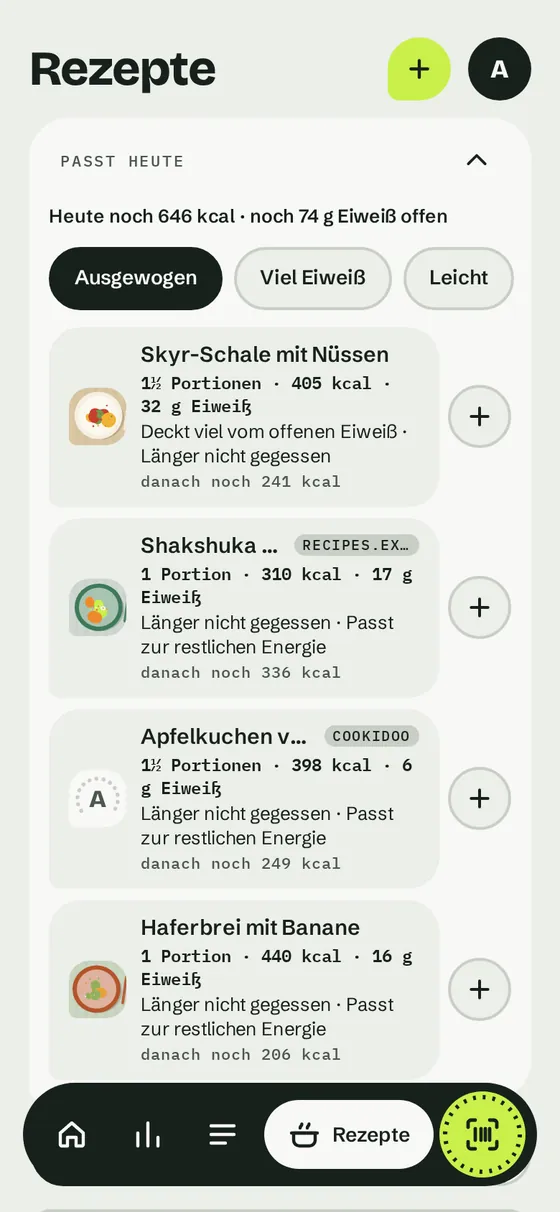
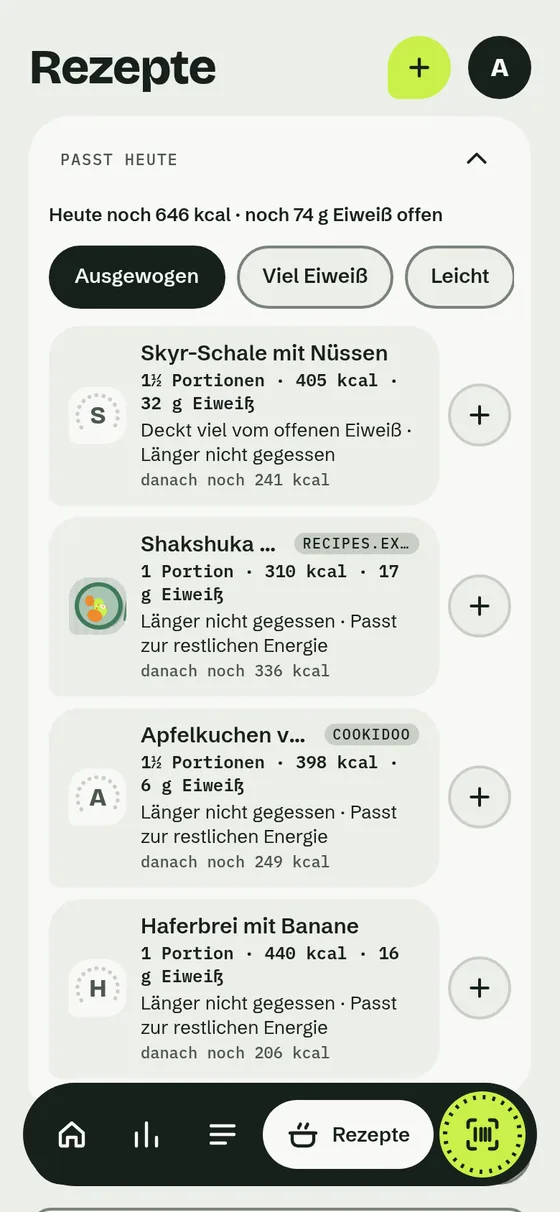
Refresh the screenshots of the project site
The pictures were from 13 November. They now show the current interface, and the insights picture shows the overview
tab with the tab bar and the calendar; its alt text and caption follow.

diff --git a/site/de/index.html b/site/de/index.html
@@ -112,7 +112,7 @@ try { var t = localStorage.getItem('mahlwerk.theme'); if (t === 'light' || t ===
 <h2>Fürs Handy gemacht, auf dem Desktop großzügig.</h2>
 <p>Deutsch und Englisch. Die Bilder zeigen die deutsche Oberfläche mit erfundenen Demo-Daten.</p>
 <div class="shots"><figure><div class="frame"><img src="../img/de/today-phone.webp" width="560" height="1212" loading="lazy" alt="Tagesansicht"></div><figcaption>Tagesansicht</figcaption></figure><figure><div class="frame"><img src="../img/de/today-dark-phone.webp" width="560" height="1212" loading="lazy" alt="Dunkles Design"></div><figcaption>Dunkles Design</figcaption></figure><figure><div class="frame"><img src="../img/de/search-phone.webp" width="560" height="1212" loading="lazy" alt="Suche mit Grundnahrungsmitteln (BLS)"></div><figcaption>Suche mit Grundnahrungsmitteln (BLS)</figcaption></figure><figure><div class="frame"><img src="../img/de/recipe-phone.webp" width="560" height="1212" loading="lazy" alt="Rezepte-Seite mit Bildern und Gruppen"></div><figcaption>Rezepte mit Bildern und Gruppen</figcaption></figure></div>
-<div class="wide" style="margin-top:18px"><figure><div class="frame"><img src="../img/de/today-desktop.webp" width="1400" height="1069" alt="Tagesansicht am Desktop"></div><figcaption>Tagesansicht am Desktop</figcaption></figure><figure><div class="frame"><img src="../img/de/insights-desktop.webp" width="1400" height="1000" loading="lazy" alt="Auswertung über 90 Tage: Kalender der Tage im, unter und über dem Zielbereich, dazu Verteilung nach Wochentag und Mahlzeit"></div><figcaption>Auswertung: Kalender und Verteilung</figcaption></figure></div>
+<div class="wide" style="margin-top:18px"><figure><div class="frame"><img src="../img/de/today-desktop.webp" width="1400" height="1069" alt="Tagesansicht am Desktop"></div><figcaption>Tagesansicht am Desktop</figcaption></figure><figure><div class="frame"><img src="../img/de/insights-desktop.webp" width="1400" height="1000" loading="lazy" alt="Auswertung über 90 Tage, Reiter Überblick: Kennzahlen, Wochenbilanz und Kalender der Tage im, unter und über dem Zielbereich; Reiter für Essen, Körper, Nährstoffe und Lebensmittel"></div><figcaption>Auswertung: Überblick und Kalender</figcaption></figure></div>
 <div class="shots three"><figure><div class="frame"><img src="../img/de/fits-phone.webp" width="560" height="1212" loading="lazy" alt="Rezepte, die zum Rest des Tages passen, mit Menge und Begründung"></div><figcaption>Was heute noch passt</figcaption></figure><figure><div class="frame"><img src="../img/de/badges-phone.webp" width="560" height="1212" loading="lazy" alt="Abzeichen"></div><figcaption>Abzeichen</figcaption></figure><figure><div class="frame"><img src="../img/de/activity-phone.webp" width="560" height="1212" loading="lazy" alt="Aktivität"></div><figcaption>Aktivität</figcaption></figure></div>
 <p style="margin-top:28px"><b>Lieber klicken als ansehen? Die Demo läuft mit der echten Oberfläche in deinem Browser, mit erfundenen Daten. Nichts wird gespeichert, nichts wird irgendwohin gesendet.</b></p>
 <div class="btns"><a class="btn solid" href="../demo/">Demo ausprobieren</a></div>

diff --git a/site/index.html b/site/index.html
@@ -112,7 +112,7 @@ try { var t = localStorage.getItem('mahlwerk.theme'); if (t === 'light' || t ===
 <h2>Made for the phone, roomy on the desktop.</h2>
 <p>German and English. The screenshots show the English interface with invented demo data.</p>
 <div class="shots"><figure><div class="frame"><img src="img/en/today-phone.webp" width="560" height="1212" loading="lazy" alt="Day view"></div><figcaption>Day view</figcaption></figure><figure><div class="frame"><img src="img/en/today-dark-phone.webp" width="560" height="1212" loading="lazy" alt="Dark theme"></div><figcaption>Dark theme</figcaption></figure><figure><div class="frame"><img src="img/en/search-phone.webp" width="560" height="1212" loading="lazy" alt="Search with basic foods (BLS)"></div><figcaption>Search with basic foods (BLS)</figcaption></figure><figure><div class="frame"><img src="img/en/recipe-phone.webp" width="560" height="1212" loading="lazy" alt="Recipes page with pictures and groups"></div><figcaption>Recipes with pictures and groups</figcaption></figure></div>
-<div class="wide" style="margin-top:18px"><figure><div class="frame"><img src="img/en/today-desktop.webp" width="1400" height="1069" alt="Day view on the desktop"></div><figcaption>Day view on the desktop</figcaption></figure><figure><div class="frame"><img src="img/en/insights-desktop.webp" width="1400" height="1000" loading="lazy" alt="Insights over 90 days: a calendar of days within, below and above the goal range, with composition by weekday and meal"></div><figcaption>Insights: calendar and composition</figcaption></figure></div>
+<div class="wide" style="margin-top:18px"><figure><div class="frame"><img src="img/en/today-desktop.webp" width="1400" height="1069" alt="Day view on the desktop"></div><figcaption>Day view on the desktop</figcaption></figure><figure><div class="frame"><img src="img/en/insights-desktop.webp" width="1400" height="1000" loading="lazy" alt="Insights over 90 days, Overview tab: totals, weekly review and a calendar of days within, below and above the goal range; tabs for eating, body, nutrients and foods"></div><figcaption>Insights: overview and calendar</figcaption></figure></div>
 <div class="shots three"><figure><div class="frame"><img src="img/en/fits-phone.webp" width="560" height="1212" loading="lazy" alt="Recipes that fit the rest of the day, with an amount and a reason"></div><figcaption>What still fits today</figcaption></figure><figure><div class="frame"><img src="img/en/badges-phone.webp" width="560" height="1212" loading="lazy" alt="Badges"></div><figcaption>Badges</figcaption></figure><figure><div class="frame"><img src="img/en/activity-phone.webp" width="560" height="1212" loading="lazy" alt="Activity"></div><figcaption>Activity</figcaption></figure></div>
 <p style="margin-top:28px"><b>Rather click than look? The demo runs the real interface in your browser, with made-up data. Nothing is saved and nothing is sent anywhere.</b></p>
 <div class="btns"><a class="btn solid" href="demo/">Try the demo</a></div>
